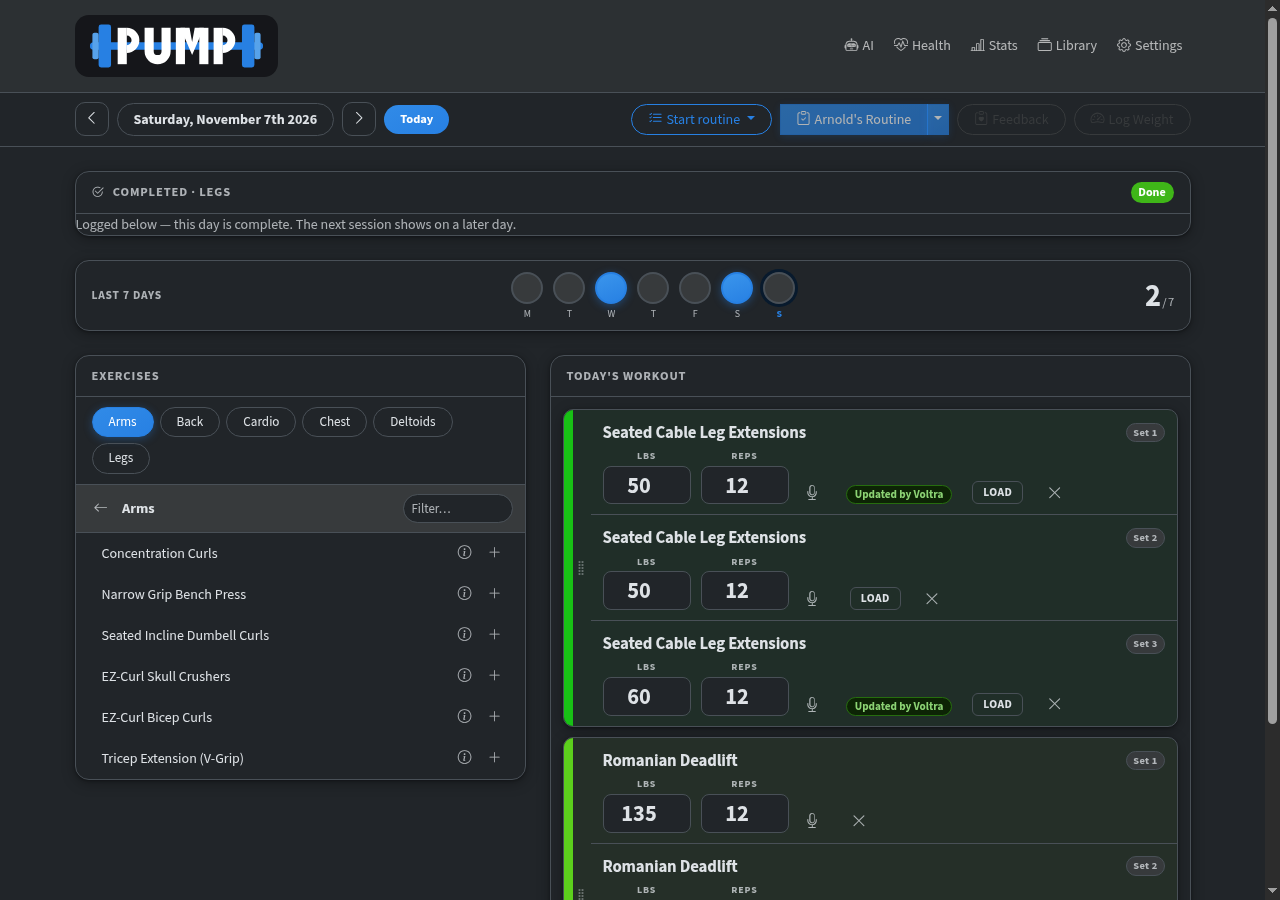
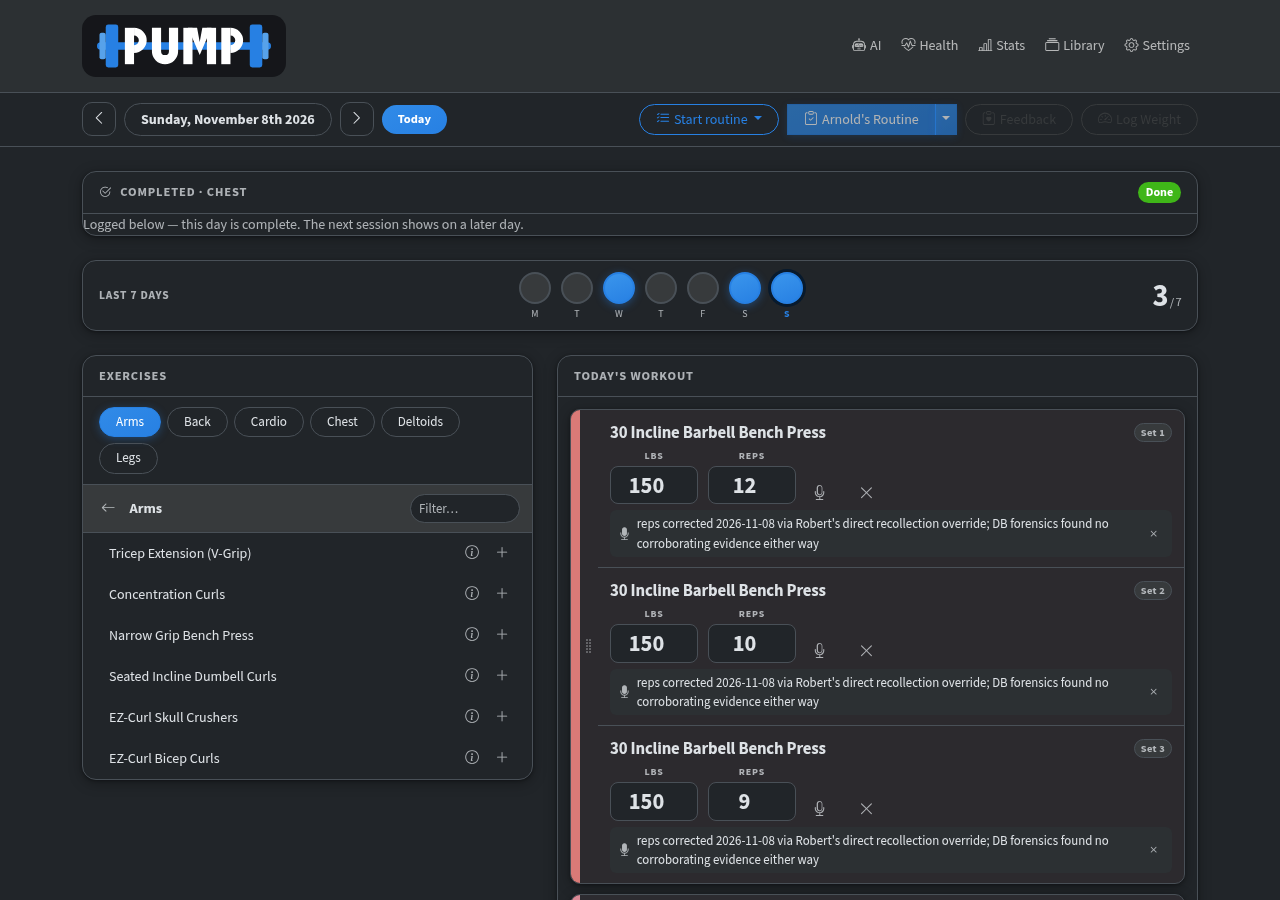
chore(release): pre-tag audit for pump-v0.2.21 (#194)
Pre-tag audit ahead of cutting pump-v0.2.21 (ships #192 prefill-as-hint +
per-set confirm and #193 Voltra phantom-set closure + bullet rationale,
neither yet in a released image — latest tag pump-v0.2.20 predates them).

- Regenerate assets/screenshot-workout.png (1280x900) against a clean restore
  of the production DB in a local ephemeral Postgres, captured on 2026-11-08
  (a day with sets) so the workout page shows the new per-set confirm UI.
  The other 16 screenshots are unchanged by these PRs (only the workout page
  UI moved) and were regenerated in #191, so they are left as-is.
- Fix AGENTS.md "Before applying any new pump-v* tag" screenshot list: it had
  gone stale and was missing screenshot-library.png (Exercise Library, /library/)
  and screenshot-stats-grip.png (Stats > Grip & Hang, #tab-grip-btn), both of
  which the README screenshot table already embeds. This is the exact
  stale-list failure mode the step documents.

Audit findings (no change required):
- README screenshot table matches the live UI: all 12 stats tab buttons from
  internal/web/templates/stats.html plus the overview landing are represented,
  and all 17 referenced assets exist (no orphaned screenshots).
- No cruft introduced since pump-v0.2.20: the diff touches only 5 source files
  (index.css/js, voltra.js, stats.go, index.html); no stray/debug/temp/backup
  files, no dead assets.
- No schema migration in #192/#193 (schema_version stays at v24); env-var table
  has no new drift.

diff --git a/AGENTS.md b/AGENTS.md
@@ -81,6 +81,7 @@ Take fresh screenshots of every page and tab at 1280×900 using the running prev
 - `screenshot-workout.png` — main workout page (`/`)
 - `screenshot-health.png` — Overall Health dashboard (`/health/`)
 - `screenshot-config.png` — Settings page (`/config/`)
+- `screenshot-library.png` — Exercise Library page (`/library/`)
 - `screenshot-stats-overview.png` — Stats › Exercise Distribution tab (`/stats/`)
 - `screenshot-stats-activity.png` — Stats › Weight Moved tab (click `#tab-activity-btn`)
 - `screenshot-stats-weight.png` — Stats › Body Weight tab (click `#tab-weight-btn`)
@@ -93,6 +94,7 @@ Take fresh screenshots of every page and tab at 1280×900 using the running prev
 - `screenshot-stats-hr.png` — Stats › Heart Rate tab (click `#tab-hr-btn`)
 - `screenshot-stats-sleep.png` — Stats › Sleep tab (click `#tab-sleep-btn`)
 - `screenshot-stats-cardio.png` — Stats › Cardio tab (click `#tab-cardio-btn`)
+- `screenshot-stats-grip.png` — Stats › Grip & Hang tab (click `#tab-grip-btn`)
 
 Shoot against a clean restore of the production dump — never against a database that test writes have touched. If a tab is added or removed, update this list and the README table to match.
 
